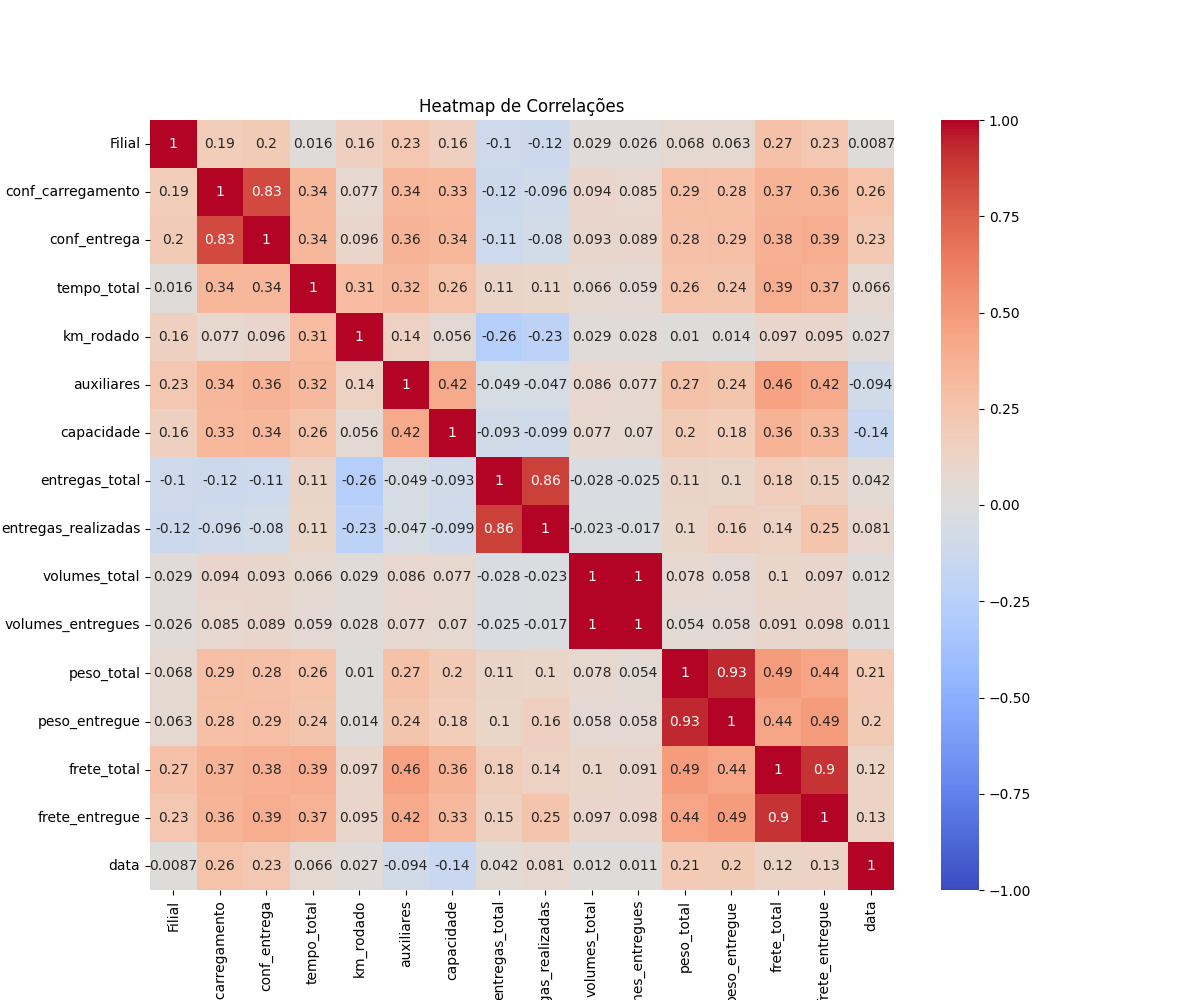
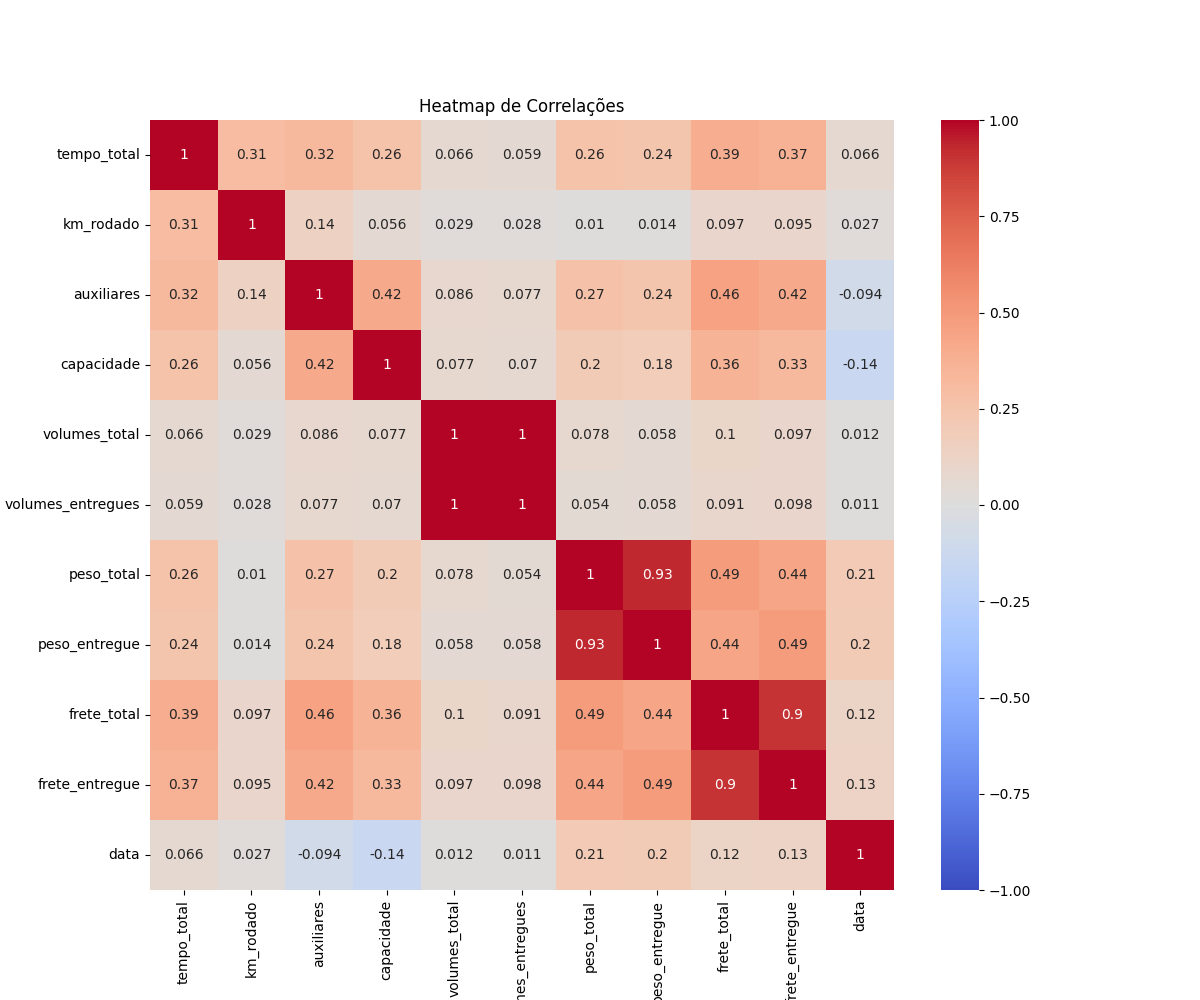
caso 1 finalizado

diff --git a/um1.py b/um1.py
@@ -6,6 +6,21 @@ from sklearn.preprocessing import LabelEncoder, StandardScaler, MinMaxScaler
 from sklearn.impute import SimpleImputer
 import matplotlib.pyplot as plt
 import seaborn as sns
+import statsmodels.api as sm
+from scipy.stats import shapiro
+from scipy import stats
+import numpy as np
+from sklearn.cluster import KMeans
+from sklearn.preprocessing import StandardScaler 
+from sklearn.metrics import silhouette_score, davies_bouldin_score
+from sklearn.decomposition import PCA
+from sklearn.tree import DecisionTreeClassifier, export_graphviz, plot_tree, _tree
+from sklearn.model_selection import GridSearchCV
+from sklearn.model_selection import train_test_split
+from sklearn.metrics import accuracy_score
+from sklearn.metrics import classification_report
+from sklearn.metrics import confusion_matrix
+from sklearn.model_selection import cross_val_predict
 
 mpl.use('Agg')
 mpl.rcParams['figure.max_open_warning'] = 50
@@ -50,20 +65,26 @@ def dashboard_um_console():
     label_encoder = LabelEncoder()
     df['Filial'] = label_encoder.fit_transform(df['Filial'])
 
+    # Tratamento de Outliers
+    Q1 = df[['km_rodado', 'tempo_total',  'capacidade', 'frete_total','frete_entregue', 'peso_total', 'peso_entregue']].quantile(0.25)
+    Q3 = df[['km_rodado', 'tempo_total', 'capacidade', 'frete_total', 'frete_entregue', 'peso_total', 'peso_entregue']].quantile(0.75)
+    IQR = Q3 - Q1
+    df = df[~((df[['km_rodado', 'tempo_total', 'capacidade', 'frete_total', 'frete_entregue', 'peso_total', 'peso_entregue']] < (Q1 - 1.5 * IQR)) 
+    | (df[['km_rodado', 'tempo_total', 'capacidade', 'frete_total', 'frete_entregue', 'peso_total', 'peso_entregue']] > (Q3 + 1.5 * IQR))).any(axis=1)]
+
     # Normalização e Padronização
     scaler = MinMaxScaler()
-    df[['km_rodado', 'tempo_total', 'frete_total', 'frete_entregue', 'Filial', 'conf_carregamento', 
-        'conf_entrega', 'auxiliares', 'capacidade',  'entregas_total', 'entregas_realizadas', 'volumes_total',  
-        'volumes_entregues', 'peso_total', 'peso_entregue']] = scaler.fit_transform(df[['km_rodado', 'tempo_total', 'frete_total', 
-        'frete_entregue', 'Filial', 'conf_carregamento', 'conf_entrega',  'auxiliares', 'capacidade', 
-        'entregas_total', 'entregas_realizadas', 'volumes_total', 'volumes_entregues', 'peso_total', 'peso_entregue']])
+    df[['volumes_total',  
+        'volumes_entregues', 'Filial', 'km_rodado', 'tempo_total',  'capacidade', 'frete_total','frete_entregue', 'peso_total', 'peso_entregue',
+          'conf_carregamento', 'conf_entrega', 'auxiliares']] = scaler.fit_transform(df[[
+        'volumes_total', 'volumes_entregues', 'Filial', 'km_rodado', 'tempo_total',  'capacidade', 'frete_total','frete_entregue', 'peso_total', 'peso_entregue', 'conf_carregamento', 'conf_entrega', 'auxiliares']])
 
-    # Tratamento de Outliers
-    Q1 = df[['km_rodado', 'tempo_total', 'frete_total', 'frete_entregue']].quantile(0.25)
-    Q3 = df[['km_rodado', 'tempo_total', 'frete_total', 'frete_entregue']].quantile(0.75)
-    IQR = Q3 - Q1
-    df = df[~((df[['km_rodado', 'tempo_total', 'frete_total', 'frete_entregue']] < (Q1 - 1.5 * IQR)) 
-    | (df[['km_rodado', 'tempo_total', 'frete_total', 'frete_entregue']] > (Q3 + 1.5 * IQR))).any(axis=1)]
+    # Tratamento de Outliers usando Z-score
+    z_scores = np.abs(stats.zscore(df[['frete_total', 'frete_entregue', 'peso_total', 'peso_entregue']]))
+    df = df[(z_scores < 3).all(axis=1)]
+
+    # Remoção de Colunas Desnecessárias
+    df = df.drop(columns=['entregas_total', 'entregas_realizadas', 'Filial', 'data', 'volumes_total', 'volumes_entregues'])
 
     # Verificação de Duplicatas
     df.drop_duplicates(inplace=True)
@@ -81,76 +102,265 @@ def dashboard_um_console():
     print("Primeiras linhas do DataFrame:")
     print(df.head())
 
-    primeiro_dia = df['data'].min().strftime("%d %b %Y") 
-    ultimo_dia = df['data'].max().strftime("%d %b %Y") 
-    total_dias = df['data'].max() - df['data'].min()
+    # primeiro_dia = df['data'].min().strftime("%d %b %Y") 
+    # ultimo_dia = df['data'].max().strftime("%d %b %Y") 
+    # total_dias = df['data'].max() - df['data'].min()
 
-    print(f"Primeira registro do caso 1: {primeiro_dia}")
-    print(f"Último registro do caso 1: {ultimo_dia}")
-    print(f"Total de dias do caso 1: {total_dias}")
+    # print(f"Primeira registro do caso 1: {primeiro_dia}")
+    # print(f"Último registro do caso 1: {ultimo_dia}")
+    # print(f"Total de dias do caso 1: {total_dias}")
 
-    # Visualizações
-    plt.figure(figsize=(10, 6))
-    sns.histplot(df['km_rodado'].dropna(), bins=50, kde=True)
-    plt.title('Distribuição de km_rodado')
-    plt.xlabel('km_rodado')
-    plt.ylabel('Frequência')
-    plt.savefig('static/graficos/new/um/kmrodado_um1.png') 
-    plt.close()
+    # Heatmap de Correlação
+    # plt.figure(figsize=(12, 8))
+    # correlation_matrix = df.corr()
+    # sns.heatmap(correlation_matrix, annot=True, cmap='coolwarm')
+    # plt.title('Heatmap de Correlação')
+    # plt.savefig('static/graficos/new/um/heatmap_correlacao_um1.png')  # Salvar o heatmap como um arquivo de imagem
+    # plt.show()
 
-    plt.figure(figsize=(14, 8))
-    sns.boxplot(data=df, x='Filial', y='frete_total')
-    plt.title('Dispersão de frete_total por Filial')
-    plt.xlabel('Filial')
-    plt.ylabel('frete_total')
-    plt.savefig('static/graficos/new/um/frete_filial_um1.png') 
-    plt.close()
+    # stat, p = shapiro(df['frete_total'])
+    # print(f'Statistics={stat}, p={p}')
 
-    plt.figure(figsize=(14, 8))
-    df['mes_ano'] = df['data'].dt.to_period('M')
-    ocorrencias_por_mes = df.groupby('mes_ano').size()
-    ocorrencias_por_mes.plot(kind='line')
-    plt.title('Número de Entregas Realizadas ao Longo do Tempo')
-    plt.xlabel('Mês/Ano')
-    plt.ylabel('Número de Entregas Realizadas')
-    plt.xticks(rotation=45)
-    plt.savefig('static/graficos/new/um/entregas_tempo_um1.png') 
-    plt.close()
+    # Adiciona 1 para evitar problemas com valores zero
+    # df['boxcox_frete_total'], _ = boxcox(df['frete_total'] + 1)
+    # df['boxcox_frete_entregue'], _ = boxcox(df['frete_entregue'] + 1)
+    # df['boxcox_peso_total'], _ = boxcox(df['peso_total'] + 1)
+    # df['boxcox_peso_entregue'], _ = boxcox(df['peso_entregue'] + 1)
 
-    # Remoção de Colunas Desnecessárias
-    df = df.drop(columns=['mes_ano'])
+    # Tratamento de Outliers usando Z-score
+    # z_scores = np.abs(stats.zscore(df[['frete_total', 'frete_entregue', 'peso_total', 'peso_entregue']]))
+    # df_filtered_zscore = df[(z_scores < 3).all(axis=1)]
+
+    # # Visualização com Boxplot
+    # plt.figure(figsize=(12, 8))
+    # df[['frete_total', 'frete_entregue', 'peso_total', 'peso_entregue']].boxplot()
+    # plt.title('Boxplot para Identificação de Outliers')
+    # plt.savefig('static/graficos/new/um/boxplot_outliers.png')
+    # plt.show()
+
+    # #Histograma
+    # plt.figure(figsize=(12, 8))
+    # df[['frete_total', 'frete_entregue', 'peso_total', 'peso_entregue']].hist(bins=20, figsize=(12, 8))
+    # plt.tight_layout()
+    # plt.savefig('static/graficos/new/um/histogramas_antigo_um1.png')  # Salvar o histograma como um arquivo de imagem
+    # plt.show()
+
+    # # Histograma  
+    # plt.figure(figsize=(12, 8))
+    # sns.histplot(df['frete_total', 'frete_entregue', 'peso_total', 'peso_entregue'], kde=True, alpha=0.3)
+    # plt.tight_layout()
+    # plt.savefig('static/graficos/new/um/histogramas_frete_um1.png')  # Salvar o histograma como um arquivo de imagem
+    # plt.show()
+
+#    # Distribuição do frete_total
+#     plt.figure(figsize=(12, 6))
+#     sns.histplot(df['frete_total'], kde=True, bins=50)
+#     plt.title('Distribuição do Frete Total')
+#     plt.xlabel('Frete Total')
+#     plt.ylabel('Frequência')
+#     plt.savefig('static/graficos/new/um/frete_total_um1.png') 
+#     plt.close()
+
+    # # Distribuição do frete_entregue
+    # plt.figure(figsize=(12, 6))
+    # sns.histplot(df['frete_entregue'], kde=True, bins=50)
+    # plt.title('Distribuição do Frete Entregue')
+    # plt.xlabel('Frete Entregue')
+    # plt.ylabel('Frequência')
+    # plt.savefig('static/graficos/new/um/frete_entregue_um1.png') 
+    # plt.close()
+ 
+    # Distribuição do peso_total
+    # plt.figure(figsize=(12, 6))
+    # sns.histplot(df['peso_total'], kde=True, bins=50)
+    # plt.title('Distribuição do Peso Total')
+    # plt.xlabel('Peso Total')
+    # plt.ylabel('Frequência')
+    # plt.savefig('static/graficos/new/um/peso_total_um1.png') 
+    # plt.close()
+
+    # # Distribuição do peso_entregue
+    # plt.figure(figsize=(12, 6))
+    # sns.histplot(df['peso_entregue'], kde=True, bins=50)
+    # plt.title('Distribuição do Peso Entregue')
+    # plt.xlabel('Peso Entregue')
+    # plt.ylabel('Frequência')
+    # plt.savefig('static/graficos/new/um/peso_entregue_um1.png') 
+    # plt.close()
+
+    # # Distribuição do km_rodado
+    # plt.figure(figsize=(12, 6))
+    # sns.histplot(df['km_rodado'], kde=True, bins=50)
+    # plt.title('Distribuição do Km Rodado')
+    # plt.xlabel('Km Rodado')
+    # plt.ylabel('Frequência')
+    # plt.savefig('static/graficos/new/um/km_rodado_um1.png') 
+    # plt.close()
+
+    # # Distribuição do tempo_total
+    # plt.figure(figsize=(12, 6))
+    # sns.histplot(df['tempo_total'], kde=True, bins=50)
+    # plt.title('Distribuição do Tempo Total')
+    # plt.xlabel('Tempo Total')
+    # plt.ylabel('Frequência')
+    # plt.savefig('static/graficos/new/um/tempo_total_um1.png') 
+    # plt.close()
     
-    plt.figure(figsize=(12, 10))
-    sns.heatmap(df.corr(), annot=True, cmap='coolwarm', vmin=-1, vmax=1)
-    plt.title('Heatmap de Correlações')
-    plt.savefig('static/graficos/new/um/corr_um1.png') 
+    # # Distribuição da capacidade
+    # plt.figure(figsize=(12, 6))
+    # sns.histplot(df['capacidade'], kde=True, bins=50)
+    # plt.title('Distribuição da Capacidade')
+    # plt.xlabel('Capacidade')
+    # plt.ylabel('Frequência')
+    # plt.savefig('static/graficos/new/um/capacidade_um1.png') 
+    # plt.close()
+
+    # # Distribuição da capacidade
+    # plt.figure(figsize=(12, 6))
+    # sns.histplot(df['auxiliares'], kde=True, bins=50)
+    # plt.title('Distribuição da Auxiliares')
+    # plt.xlabel('Auxiliares')
+    # plt.ylabel('Frequência')
+    # plt.savefig('static/graficos/new/um/auxiliares_um1.png') 
+    # plt.close()
+
+    # Aplicação do KMeans e Determinação do Número Ideal de Clusters
+    X_scaled = df.copy()
+    silhouette_scores = []
+    inertia = []
+    K_range = range(2, 11)
+
+    for k in K_range:
+        kmeans = KMeans(n_clusters=k, random_state=42)
+        kmeans.fit(X_scaled)
+        score = silhouette_score(X_scaled, kmeans.labels_)
+        silhouette_scores.append(score)
+        inertia.append(kmeans.inertia_)
+
+    optimal_k_silhouette = K_range[np.argmax(silhouette_scores)]
+    optimal_k_elbow = K_range[np.argmin(np.diff(inertia, 2)) + 1]  # Finding the elbow points
+
+    # Clustering com Silhouette
+    kmeans_silhouette = KMeans(n_clusters=optimal_k_silhouette, random_state=42)
+    kmeans_silhouette.fit(X_scaled)
+    df['Cluster_Silhouette'] = kmeans_silhouette.labels_
+
+    # Clustering com Elbow
+    kmeans_elbow = KMeans(n_clusters=optimal_k_elbow, random_state=42)
+    kmeans_elbow.fit(X_scaled)
+    df['Cluster_Elbow'] = kmeans_elbow.labels_
+
+    # PCA para visualização
+    pca = PCA(n_components=2)
+    X_pca = pca.fit_transform(X_scaled)
+    df['PCA1'] = X_pca[:, 0]
+    df['PCA2'] = X_pca[:, 1]
+
+    # Plotagem dos clusters com Silhouette
+    plt.figure(figsize=(10, 8))
+    sns.scatterplot(x='PCA1', y='PCA2', hue='Cluster_Silhouette', data=df, palette='viridis', s=100, alpha=0.6, edgecolor='k')
+    plt.title(f'Clusters com K={optimal_k_silhouette} (Silhouette)')
+    plt.savefig('static/graficos/new/um/clusters_silhouette.png')
     plt.close()
 
+    # Plotagem dos clusters com Elbow
+    plt.figure(figsize=(10, 8))
+    sns.scatterplot(x='PCA1', y='PCA2', hue='Cluster_Elbow', data=df, palette='viridis', s=100, alpha=0.6, edgecolor='k')
+    plt.title(f'Clusters com K={optimal_k_elbow} (Elbow)')
+    plt.savefig('static/graficos/new/um/clusters_elbow.png')
+    plt.close()
+
+    # Plotagem do Gráfico de Silhouette
     plt.figure(figsize=(10, 6))
-    sns.scatterplot(data=df, x='km_rodado', y='frete_total')
-    plt.title('Relação entre Quilometragem Rodada e frete_total')
-    plt.xlabel('Quilometragem Rodada')
-    plt.ylabel('frete_total')
-    plt.savefig('static/graficos/new/um/kmrodado_frete_um1.png') 
+    plt.plot(K_range, silhouette_scores, marker='o')
+    plt.title('Silhouette Scores para Diferentes Valores de K')
+    plt.xlabel('Número de Clusters (K)')
+    plt.ylabel('Silhouette Score')
+    plt.savefig('static/graficos/new/um/silhouette_scores.png')
     plt.close()
 
-    plt.figure(figsize=(14, 8))
-    sns.countplot(data=df, x='Filial')
-    plt.title('Distribuição de Filiais')
-    plt.xlabel('Filial')
-    plt.ylabel('Frequência')
-    plt.savefig('static/graficos/new/um/filial_um1.png') 
+    # Plotagem do Gráfico de Elbow
+    plt.figure(figsize=(10, 6))
+    plt.plot(K_range, inertia, marker='o')
+    plt.title('Método Elbow para Determinar o Número de Clusters')
+    plt.xlabel('Número de Clusters (K)')
+    plt.ylabel('Inertia')
+    plt.savefig('static/graficos/new/um/elbow_method.png')
     plt.close()
 
-    plt.figure(figsize=(14, 8))
-    sns.boxplot(data=df, x='Filial', y='tempo_total')
-    plt.title('Dispersão de tempo_total por Filial')
-    plt.xlabel('Filial')
-    plt.ylabel('tempo_total')
-    plt.savefig('static/graficos/new/um/tempototal_filial_um1.png') 
-    plt.close()
+    silhouette_avg_silhouette = silhouette_score(X_scaled, kmeans_silhouette.labels_)
+    silhouette_avg_elbow = silhouette_score(X_scaled, kmeans_elbow.labels_)
+    davies_bouldin_silhouette = davies_bouldin_score(X_scaled, kmeans_silhouette.labels_)
+    davies_bouldin_elbow = davies_bouldin_score(X_scaled, kmeans_elbow.labels_)
 
+    print(f'Silhouette Score (Silhouette): {silhouette_avg_silhouette}')
+    print(f'Silhouette Score (Elbow): {silhouette_avg_elbow}')
+    print(f'Davies-Bouldin Score (Silhouette): {davies_bouldin_silhouette}')
+    print(f'Davies-Bouldin Score (Elbow): {davies_bouldin_elbow}')
+
+    tree = DecisionTreeClassifier()
+    tree_para = {'criterion':['entropy','gini'],'max_depth':[4,5,6,7,8,9,10,11,12,15,20,30,40,50,70,90,120,150],'min_samples_leaf':[1,2,3,4,5]}
+    grid = GridSearchCV(tree, tree_para,verbose=5, cv=10)
+    grid.fit(X_scaled,kmeans_silhouette.labels_)
+    best_clf = grid.best_estimator_
+    best = best_clf
+
+    # Exibir resultados do GridSearchCV
+    best_params = grid.best_params_
+    best_score = grid.best_score_
     
+    print(f'Best parameters found: {best_params}')
+    print(f'Best score found: {best_score}')
+
+    # Criação de conjuntos de treino e teste
+    X_train, X_test, y_train, y_test = train_test_split(X_scaled,kmeans_silhouette.labels_,test_size=0.3,random_state=100)
+    train = (X_train.shape, y_train.shape) # shape - mostra quantas linhas e colunas foram geradas
+    test = (X_test.shape, y_test.shape)
+    tree = DecisionTreeClassifier(criterion='entropy', max_depth=30, min_samples_leaf=1)
+    tree.fit(X_train,y_train)
+    predictions_test = tree.predict(X_test)
+    accuracy_test = accuracy_score(y_test,predictions_test)*100
+    report_test = classification_report(y_test,predictions_test)
+
+    print(f'Acurácia: {accuracy_test}')
+    print(f'Report: {report_test}')
+
+    #Test
+    cf = confusion_matrix(y_test,predictions_test)
+    lbl1 = ['high', 'medium', 'low']
+    lbl2 = ['high', 'medium', 'low']
+    plt.figure(figsize=(10, 7))
+    sns.heatmap(cf, annot=True, cmap="Greens", fmt="d", xticklabels=lbl1, yticklabels=lbl2)
+    plt.title("Confusion Matrix - Test")
+    plt.savefig('static/graficos/new/um/df_confusion_matrix_test.png')  # Salvando o gráfico
+    plt.close()
+
+    #Cross Validation
+    predictions_test = cross_val_predict(tree,X_scaled,kmeans_silhouette.labels_,cv=10)
+    accuracy_test1 = accuracy_score(kmeans_silhouette.labels_,predictions_test)*100
+
+    print(f'Acurácia: {accuracy_test1}')
+
+    predictions = cross_val_predict(tree,X_scaled,kmeans_silhouette.labels_,cv=10)
+    cf = confusion_matrix(kmeans_silhouette.labels_,predictions)
+    lbl1 = ['high', 'medium', 'low']
+    lbl2 = ['high', 'medium', 'low']
+    plt.figure(figsize=(10, 7))
+    sns.heatmap(cf, annot=True, cmap="Greens", fmt="d", xticklabels=lbl1, yticklabels=lbl2)
+    plt.title("Confusion Matrix - Cross Validation")
+    plt.savefig('static/graficos/new/um/df_confusion_matrix_cv.png')  # Salvando o gráfico
+    plt.close()
+
+    report = classification_report(kmeans_silhouette.labels_,predictions)
+    print(f'Report: {report}')
+    
+    #Gera arvore de decisao
+    plt.figure(figsize=(100, 100))
+    plot_tree(tree, filled=True, fontsize=7)
+    plt.title("Decision Tree")
+    plt.savefig('static/graficos/new/um/df_decision_tree.png')  # Salvando o gráfico
+    plt.close()
+
     return "RESULTADO"
 
 if __name__ == '__main__':
